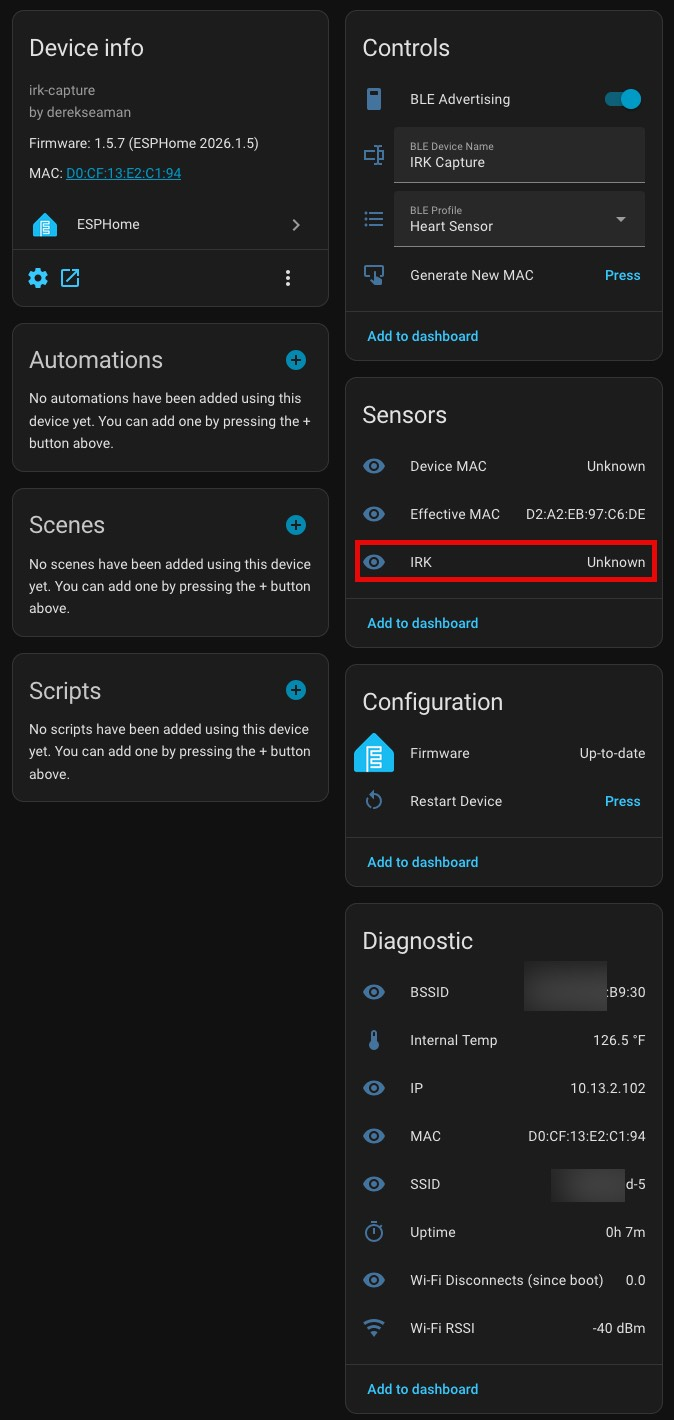
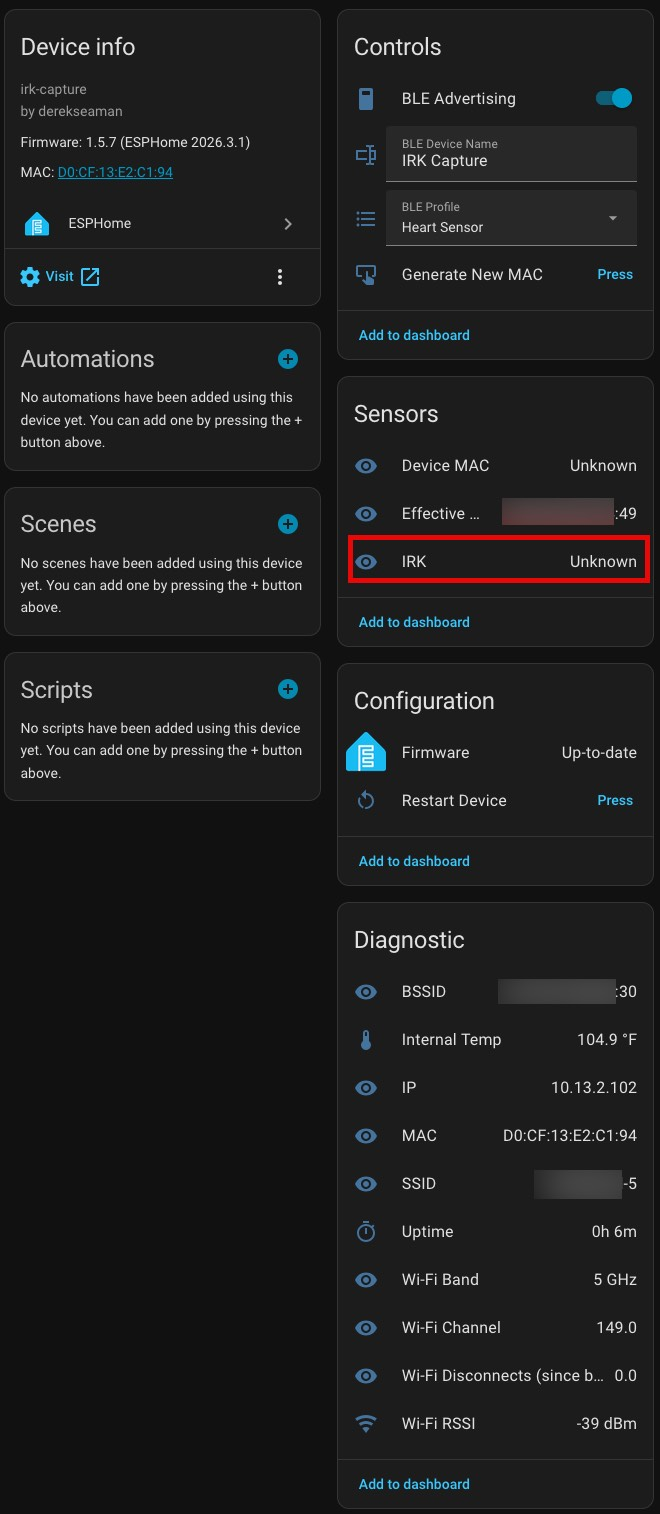
Add Wi-Fi Band and Wi-Fi Channel diagnostic sensors (v1.0.3)
- Add Wi-Fi Band text sensor (2.4 GHz / 5 GHz) to both base configs
- Add Wi-Fi Channel integer sensor to both base configs
- Both sensors fire immediately on Wi-Fi connect via on_connect handler, then poll every 60s
- Add wifi_helpers.h to expose esp_wifi_sta_get_ap_info() to ESPHome lambdas
- Use esphome: includes: to scope the header to generated main.cpp only
- Bump IRK base project version to 1.5.9
- Update README.md and README-c5-base.md to document new sensors and wifi_helpers.h

diff --git a/examples/common/wifi_helpers.h b/examples/common/wifi_helpers.h
@@ -1,0 +1,2 @@
+#pragma once
+#include <esp_wifi.h>

diff --git a/README.md b/README.md
@@ -14,6 +14,8 @@ Quick overview
 
   - `examples/common/Seeed xiao ESP32-c5 base IRK.yaml` — IRK capture variant base configuration.
 
+  - `examples/common/wifi_helpers.h` — required C++ helper that exposes the ESP-IDF Wi-Fi API to ESPHome template sensor lambdas (must be copied to `config/esphome/common/` on your ESPHome instance).
+
 ![Seeed XIAO ESP32-C5 PCB](docs/seeed%20c5%20pcb.jpg)
 
 **Key feature:** The ESP32-C5 supports dual-band **2.4 GHz and 5 GHz Wi-Fi 6 (802.11ax)**, making it the first XIAO ESP32 variant with 5 GHz capability. Antenna switching on the C5 is hardware-managed (LFD182G45DCHD277 RF switch) and requires no GPIO control — unlike the C6 which uses a software-controlled FM8625H switch.
@@ -59,7 +61,7 @@ What the base config provides:
   - **High**: 320ms interval, 160ms window (50% duty cycle) — maximum presence detection accuracy
   - Profile selection persists across reboots
 
-- Sensors: uptime, internal temperature, Wi‑Fi RSSI, Wi‑Fi info (BSSID, IP, SSID, MAC), Wi‑Fi disconnects (since boot), and SNTP time.
+- Sensors: uptime, internal temperature, Wi‑Fi RSSI, Wi‑Fi Band (2.4 GHz / 5 GHz), Wi‑Fi Channel, Wi‑Fi info (BSSID, IP, SSID, MAC), Wi‑Fi disconnects (since boot), and SNTP time.
 
 ## IRK Capture Variant
 
@@ -104,10 +106,18 @@ This is an **ESPHome Device Builder package** designed to work seamlessly with t
    └── esphome/
        └── common/
            ├── Seeed xiao ESP32-c5 base.yaml      ← Standard BLE proxy config
-           └── Seeed xiao ESP32-c5 base IRK.yaml  ← IRK capture config
+           ├── Seeed xiao ESP32-c5 base IRK.yaml  ← IRK capture config
+           └── wifi_helpers.h                     ← Required C++ header (see below)
    ```
 
-3. Copy the base YAML file(s) to the `config/esphome/common/` directory
+3. Copy the base YAML file(s) **and** `wifi_helpers.h` to the `config/esphome/common/` directory. The `wifi_helpers.h` file exposes the ESP-IDF Wi-Fi API to the Wi-Fi Band and Wi-Fi Channel template sensors. It contains only two lines:
+
+   ```cpp
+   #pragma once
+   #include <esp_wifi.h>
+   ```
+
+   Without this file, the build will fail with: `error: 'esp_wifi_sta_get_ap_info' was not declared in this scope`. ESPHome's `includes:` mechanism injects this header only into the generated `main.cpp`, avoiding the build errors caused by injecting it globally across all ESP-IDF compilation units.
 4. Create your device YAML using the minimal structure shown above:
    - Update the `device_name` and `friendly_name` substitutions for your specific device
    - Generate new `api_key` and `ota_password` values (ESPHome Builder can generate these)
@@ -142,7 +152,7 @@ The device page shows:
 - **Device info**: Board type, firmware version, and MAC address
 - **Controls**: BLE Scan Profile selector (Low/Medium/High)
 - **Configuration**: Firmware management and OTA updates
-- **Diagnostic**: BSSID, internal temperature, IP address, MAC address, SSID, uptime, Wi-Fi disconnects (since boot), and Wi-Fi RSSI
+- **Diagnostic**: BSSID, internal temperature, IP address, MAC address, SSID, uptime, Wi-Fi Band, Wi-Fi Channel, Wi-Fi disconnects (since boot), and Wi-Fi RSSI
 
 ## IRK Capture Device Page
 
@@ -156,4 +166,4 @@ The IRK capture device page shows:
 - **Controls**: BLE Advertising toggle, BLE Device Name input, BLE Profile selector, and Generate New MAC button
 - **Sensors**: Device MAC (paired device address), Effective MAC (current BLE advertising address), and IRK (captured Identity Resolving Key)
 - **Configuration**: Firmware management and OTA updates
-- **Diagnostic**: BSSID, internal temperature, IP address, MAC address, SSID, uptime, Wi-Fi disconnects (since boot), and Wi-Fi RSSI
+- **Diagnostic**: BSSID, internal temperature, IP address, MAC address, SSID, uptime, Wi-Fi Band, Wi-Fi Channel, Wi-Fi disconnects (since boot), and Wi-Fi RSSI

diff --git a/examples/common/README-c5-base.md b/examples/common/README-c5-base.md
@@ -21,6 +21,8 @@ Key sections and what they do
 
   - `name: ${device_name}` and `friendly_name: ${friendly_name}`: the base config now includes these, so device YAMLs no longer need to define the `esphome:` section — just provide the substitutions.
 
+  - `includes: [common/wifi_helpers.h]`: injects `<esp_wifi.h>` into the generated `main.cpp` so template sensor lambdas can call `esp_wifi_sta_get_ap_info()`. A `platformio_options: build_flags` approach was tried but injects the header globally across all ESP-IDF compilation units, causing build failures in unrelated files. The `includes:` mechanism correctly scopes it to ESPHome's generated code only. The file must exist at `config/esphome/common/wifi_helpers.h` — see the *Required helper file* section below.
+
 - `logger`:
 
   - `level: DEBUG`, `baud_rate: 115200`, `hardware_uart: USB_SERIAL_JTAG` — controls serial logging level and port. Change `level` to `INFO` or `WARN` on stable devices to reduce logs.
@@ -51,6 +53,8 @@ Key sections and what they do
 
   - `ap` sets a fallback captive AP with its own `ssid` and `password` (`wifi_captive`).
 
+  - `on_connect`: immediately triggers an update of the Wi-Fi Band and Wi-Fi Channel sensors as soon as the device associates with the AP, so values appear in Home Assistant within seconds of boot rather than waiting up to 60 s for the first poll interval.
+
   - `on_disconnect`: increments a counter (`_wifi_disconnects_since_boot`) each time Wi-Fi disconnects, exposed via a template sensor for diagnostics.
 
 - `captive_portal`, `mdns`:
@@ -69,7 +73,9 @@ Key sections and what they do
 
 - `sensor` / `text_sensor` / `time` / `globals`:
 
-  - Adds common sensors: uptime (converted to hours), internal temperature, Wi‑Fi RSSI, Wi‑Fi info (BSSID, IP, SSID, MAC), Wi-Fi disconnects (since boot), and SNTP time source.
+  - Adds common sensors: uptime (converted to hours), internal temperature, Wi‑Fi RSSI, Wi‑Fi Band (text sensor — `"2.4 GHz"` or `"5 GHz"`), Wi‑Fi Channel (integer — e.g. `6` or `100`), Wi‑Fi info (BSSID, IP, SSID, MAC), Wi-Fi disconnects (since boot), and SNTP time source.
+
+  - Wi‑Fi Band and Wi‑Fi Channel are derived from `esp_wifi_sta_get_ap_info()` via the `wifi_helpers.h` include. Both poll every 60 s, are tagged `diagnostic`, and also fire immediately on Wi-Fi connect via the `on_connect` handler.
 
   - `globals`: defines `_wifi_disconnects_since_boot` counter (not restored on reboot) tracked by the Wi-Fi `on_disconnect` handler.
 
@@ -116,6 +122,17 @@ This package is designed for ESPHome Builder in Home Assistant, which automatica
 - Device flashing and OTA updates
 
 See the main `README.md` for complete ESPHome Builder setup instructions.
+
+Required helper file
+
+The base config's `esphome: includes:` block references `common/wifi_helpers.h`. This file must be present at `config/esphome/common/wifi_helpers.h` on your ESPHome instance before building. It is included in this repository at `examples/common/wifi_helpers.h` and contains just two lines:
+
+```cpp
+#pragma once
+#include <esp_wifi.h>
+```
+
+Without it, the build will fail with: `error: 'esp_wifi_sta_get_ap_info' was not declared in this scope`.
 
 Notes and cautions
 